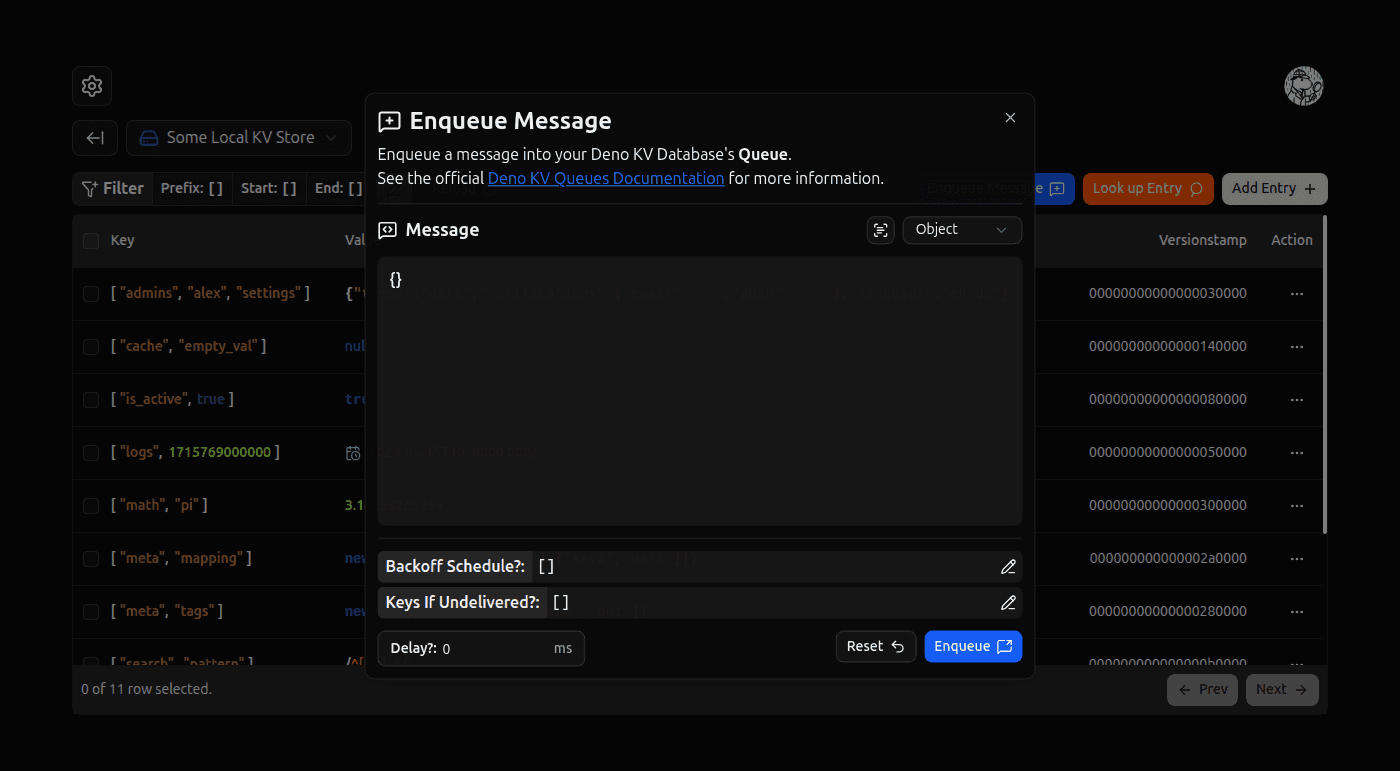
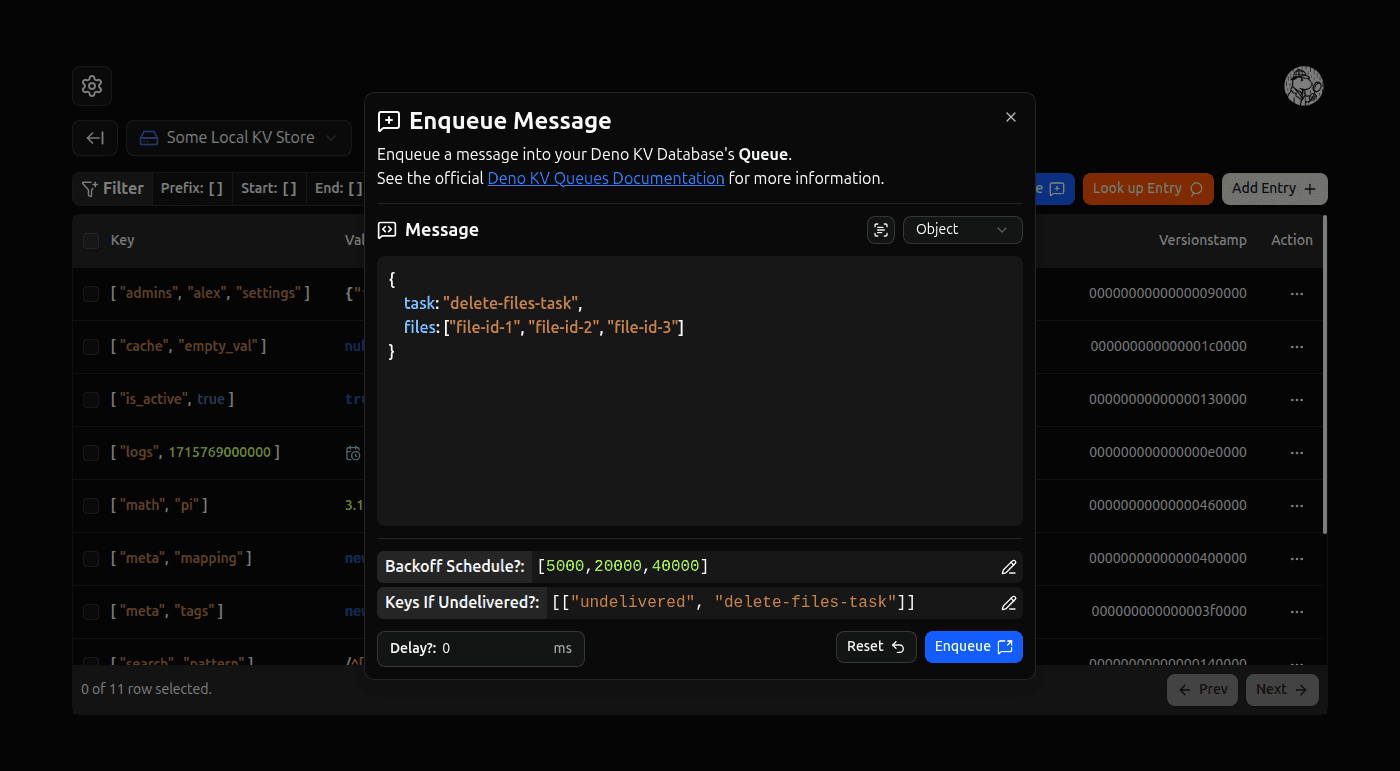
chore(landing): add "Enqueueing Messages UI" feature screenshots

diff --git a/scripts/takeScreenshots.ts b/scripts/takeScreenshots.ts
@@ -232,6 +232,37 @@ async function takeScreenshotOfSavedBrowsingParamsDialog(page: Page, mode: Mode)
 async function takeScreenshotOfEnqueueMessageDialog(page: Page, mode: Mode) {
     await page.locator('button', { hasText: "Enqueue Message" }).click();
     await page.waitForTimeout(100);
+    const valueEditor = page.locator('div#value-editor')
+    await valueEditor.fill('{task: "delete-files-task", files: ["file-id-1", "file-id-2", "file-id-3"]}')
+    await valueEditor.press('Space')
+    await page.locator('button', { has: page.locator('svg.lucide-scan-text') }).click();
+    await page.waitForTimeout(100)
+
+    await page.locator('div', { has: page.locator('> p', { hasText: "Backoff Schedule" }) })
+        .locator("button")
+        .click();
+    await page.waitForTimeout(100);
+
+    const backoffScheduleEditor = page.locator('div#backoff-schedule-editor');
+    await backoffScheduleEditor.fill('[5000, 20000, 40000]');
+    await backoffScheduleEditor.press('Space');
+    await page.waitForTimeout(100)
+    await page.screenshot({ path: `./screenshots/EnqueueMessageBackoffScheduleOption_${mode}.temp.png`, fullPage: true });
+    await page.locator("button", { hasText: "Set Option" }).click();
+
+    await page.locator('div', { has: page.locator('> p', { hasText: "Keys If Undelivered" }) })
+        .locator("button")
+        .click();
+    await page.waitForTimeout(100);
+
+    const keysIfUndeliveredEditor = page.locator('div#keys-if-undelivered-editor');
+    await keysIfUndeliveredEditor.fill('[["undelivered", "delete-files-task"]]');
+    await keysIfUndeliveredEditor.press('Space');
+    await page.screenshot({ path: `./screenshots/EnqueueMessageKeysIfUndeliveredOption_${mode}.temp.png`, fullPage: true });
+    await page.locator("button", { hasText: "Set Option" }).click();
+    await page.waitForTimeout(100);
+
+    await page.waitForTimeout(125);
     await page.screenshot({ path: `./screenshots/EnqueueMessageDialog_${mode}.temp.png`, fullPage: true });
     await page.keyboard.press('Escape');
 }

diff --git a/screenshots/SCREENSHOTS.md b/screenshots/SCREENSHOTS.md
@@ -1,6 +1,6 @@
 # Screenshots
 
-Here are some screenshots of how `Denokv GUI Client` app looks like
+Here are some screenshots of how `Denokv GUI Client` app looks like:
 
 ### KV Stores Grid
 ![KV Stores Grid screenshot (Dark)](./KvStoresGrid_dark.png#gh-dark-mode-only)
@@ -33,6 +33,18 @@ Here are some screenshots of how `Denokv GUI Client` app looks like
 ### Saved Browsing Params Dialog
 ![Saved Browsing Params Dialog screenshot (Dark)](./SavedBrowsingParamsDialog_dark.png#gh-dark-mode-only)
 ![Saved Browsing Params Dialog screenshot (Light)](./SavedBrowsingParamsDialog_light.png#gh-light-mode-only)
+
+### Enqueue Message Dialog
+![Enqueue Message Dialog screenshot (Dark)](./EnqueueMessageDialog_dark.png#gh-dark-mode-only)
+![Enqueue Message Dialog screenshot (Light)](./EnqueueMessageDialog_light.png#gh-light-mode-only)
+
+### Enqueue Message Backoff Schedule Option
+![Enqueue Message Backoff Schedule Option screenshot (Dark)](./EnqueueMessageBackoffScheduleOption_dark.png#gh-dark-mode-only)
+![Enqueue Message Backoff Schedule Option screenshot (Light)](./EnqueueMessageBackoffScheduleOption_light.png#gh-light-mode-only)
+
+### Enqueue Message Keys If Undelivered Option
+![Enqueue Message Keys If Undelivered Option screenshot (Dark)](./EnqueueMessageKeysIfUndeliveredOption_dark.png#gh-dark-mode-only)
+![Enqueue Message Keys If Undelivered Option screenshot (Light)](./EnqueueMessageKeysIfUndeliveredOption_light.png#gh-light-mode-only)
 
 ### Settings Page
 ![Settings Page screenshot (Dark)](./SettingsPage_dark.png#gh-dark-mode-only)
